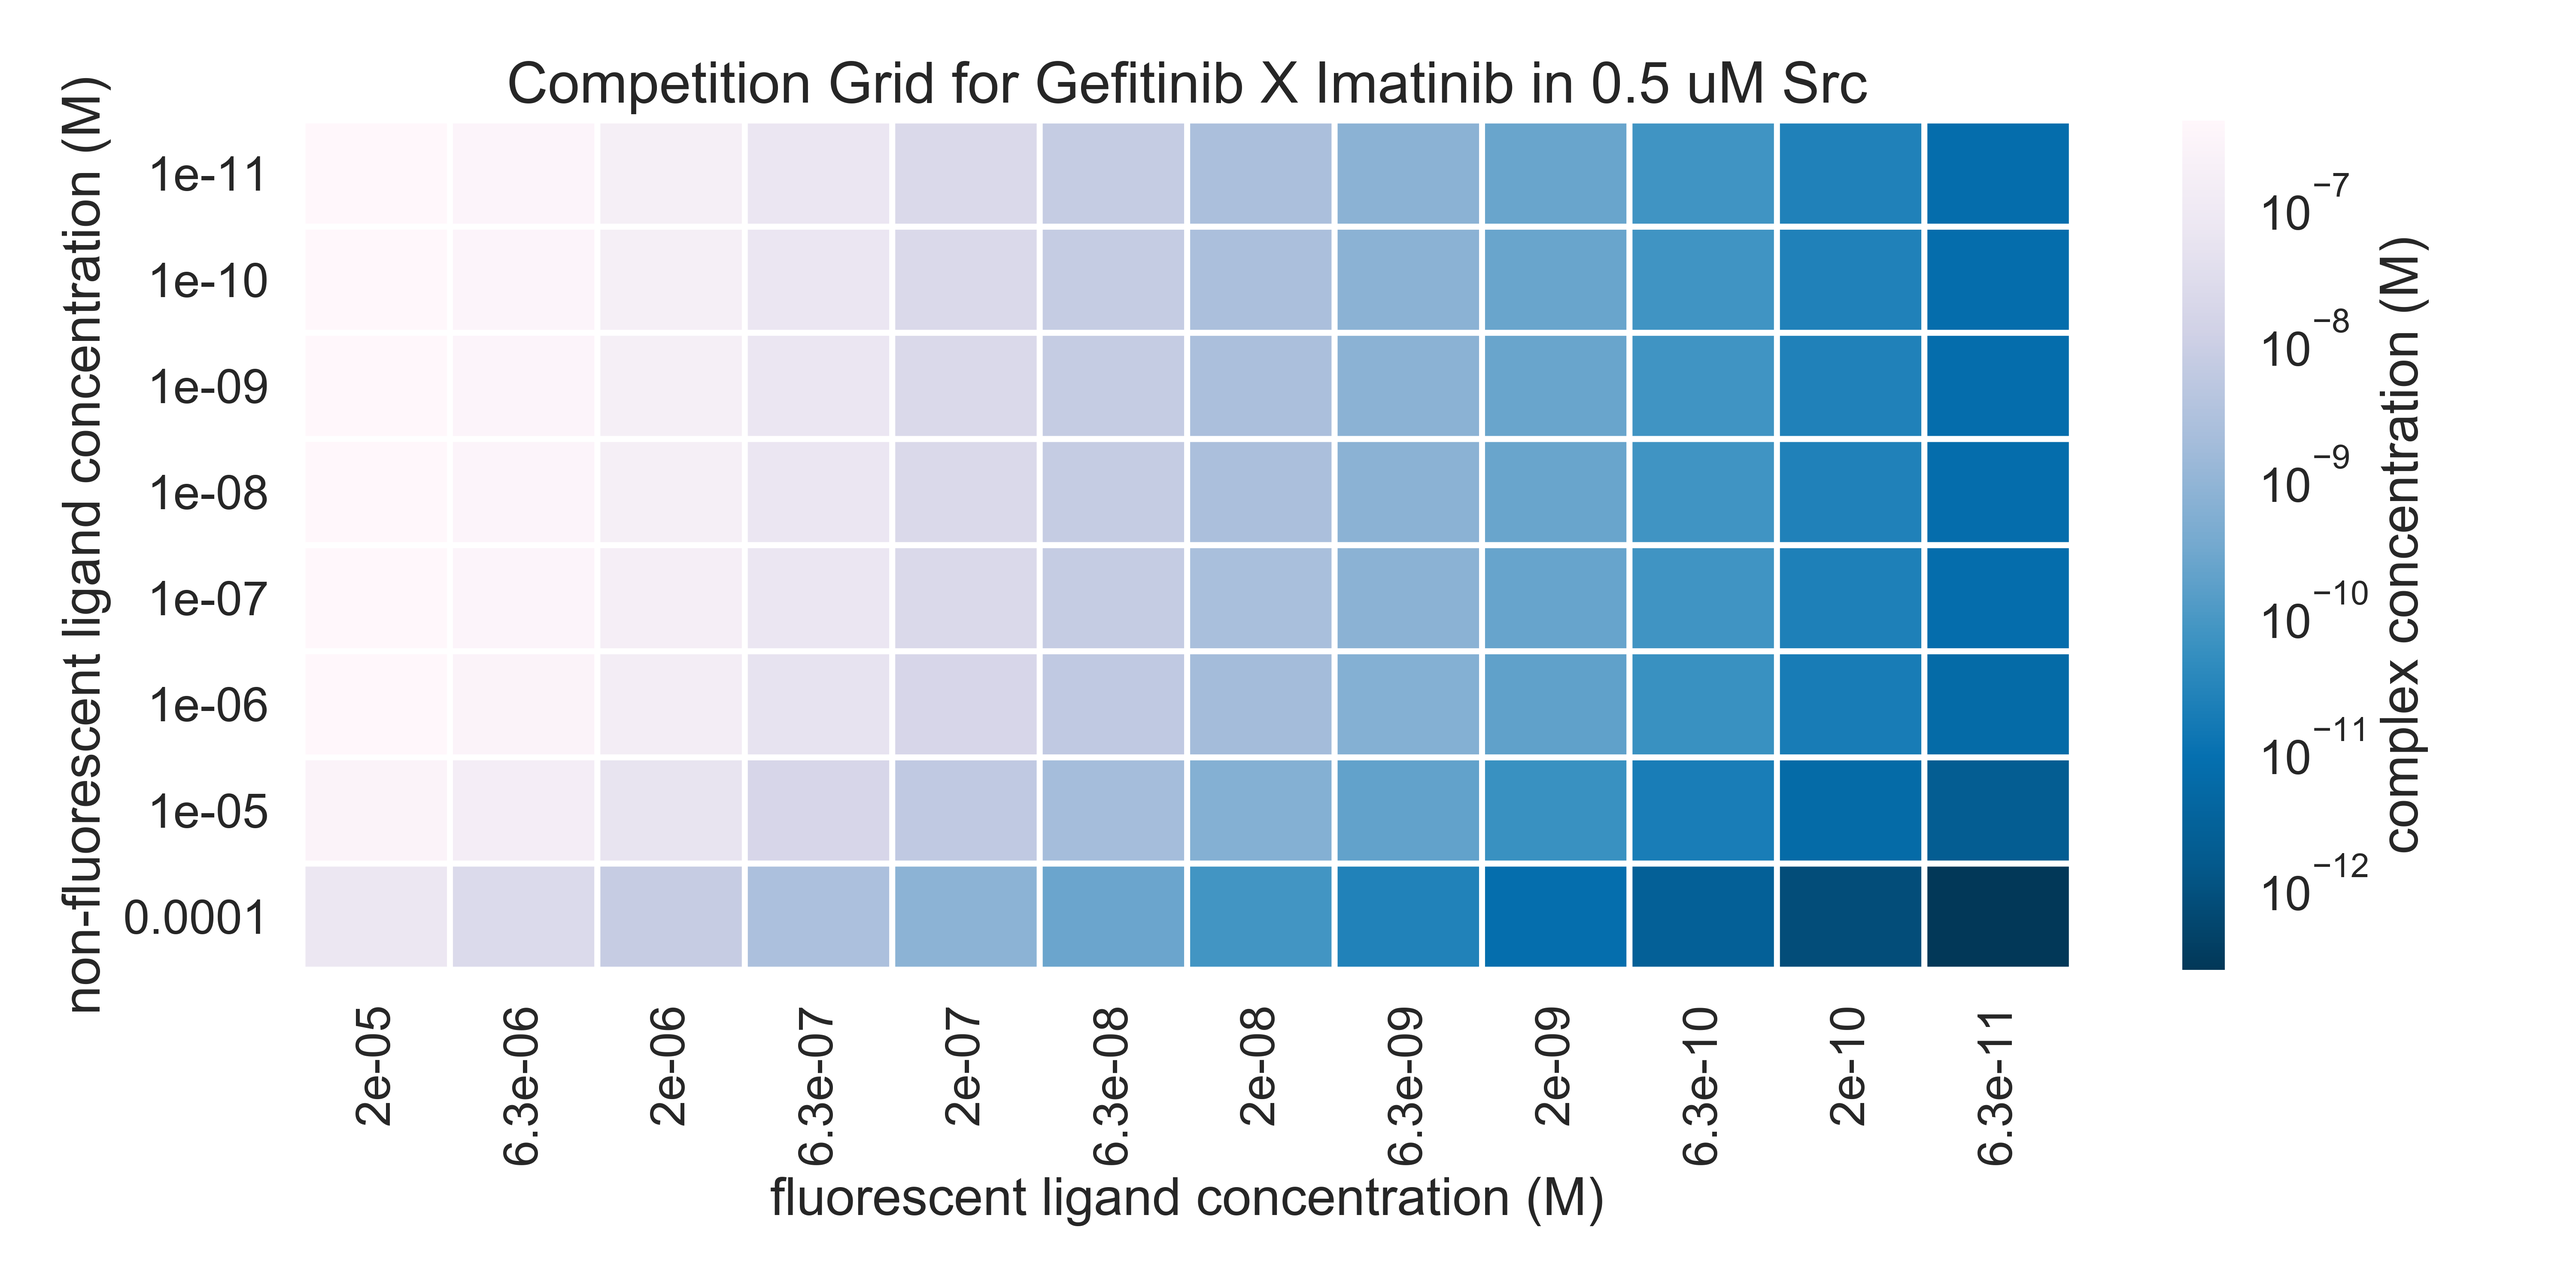
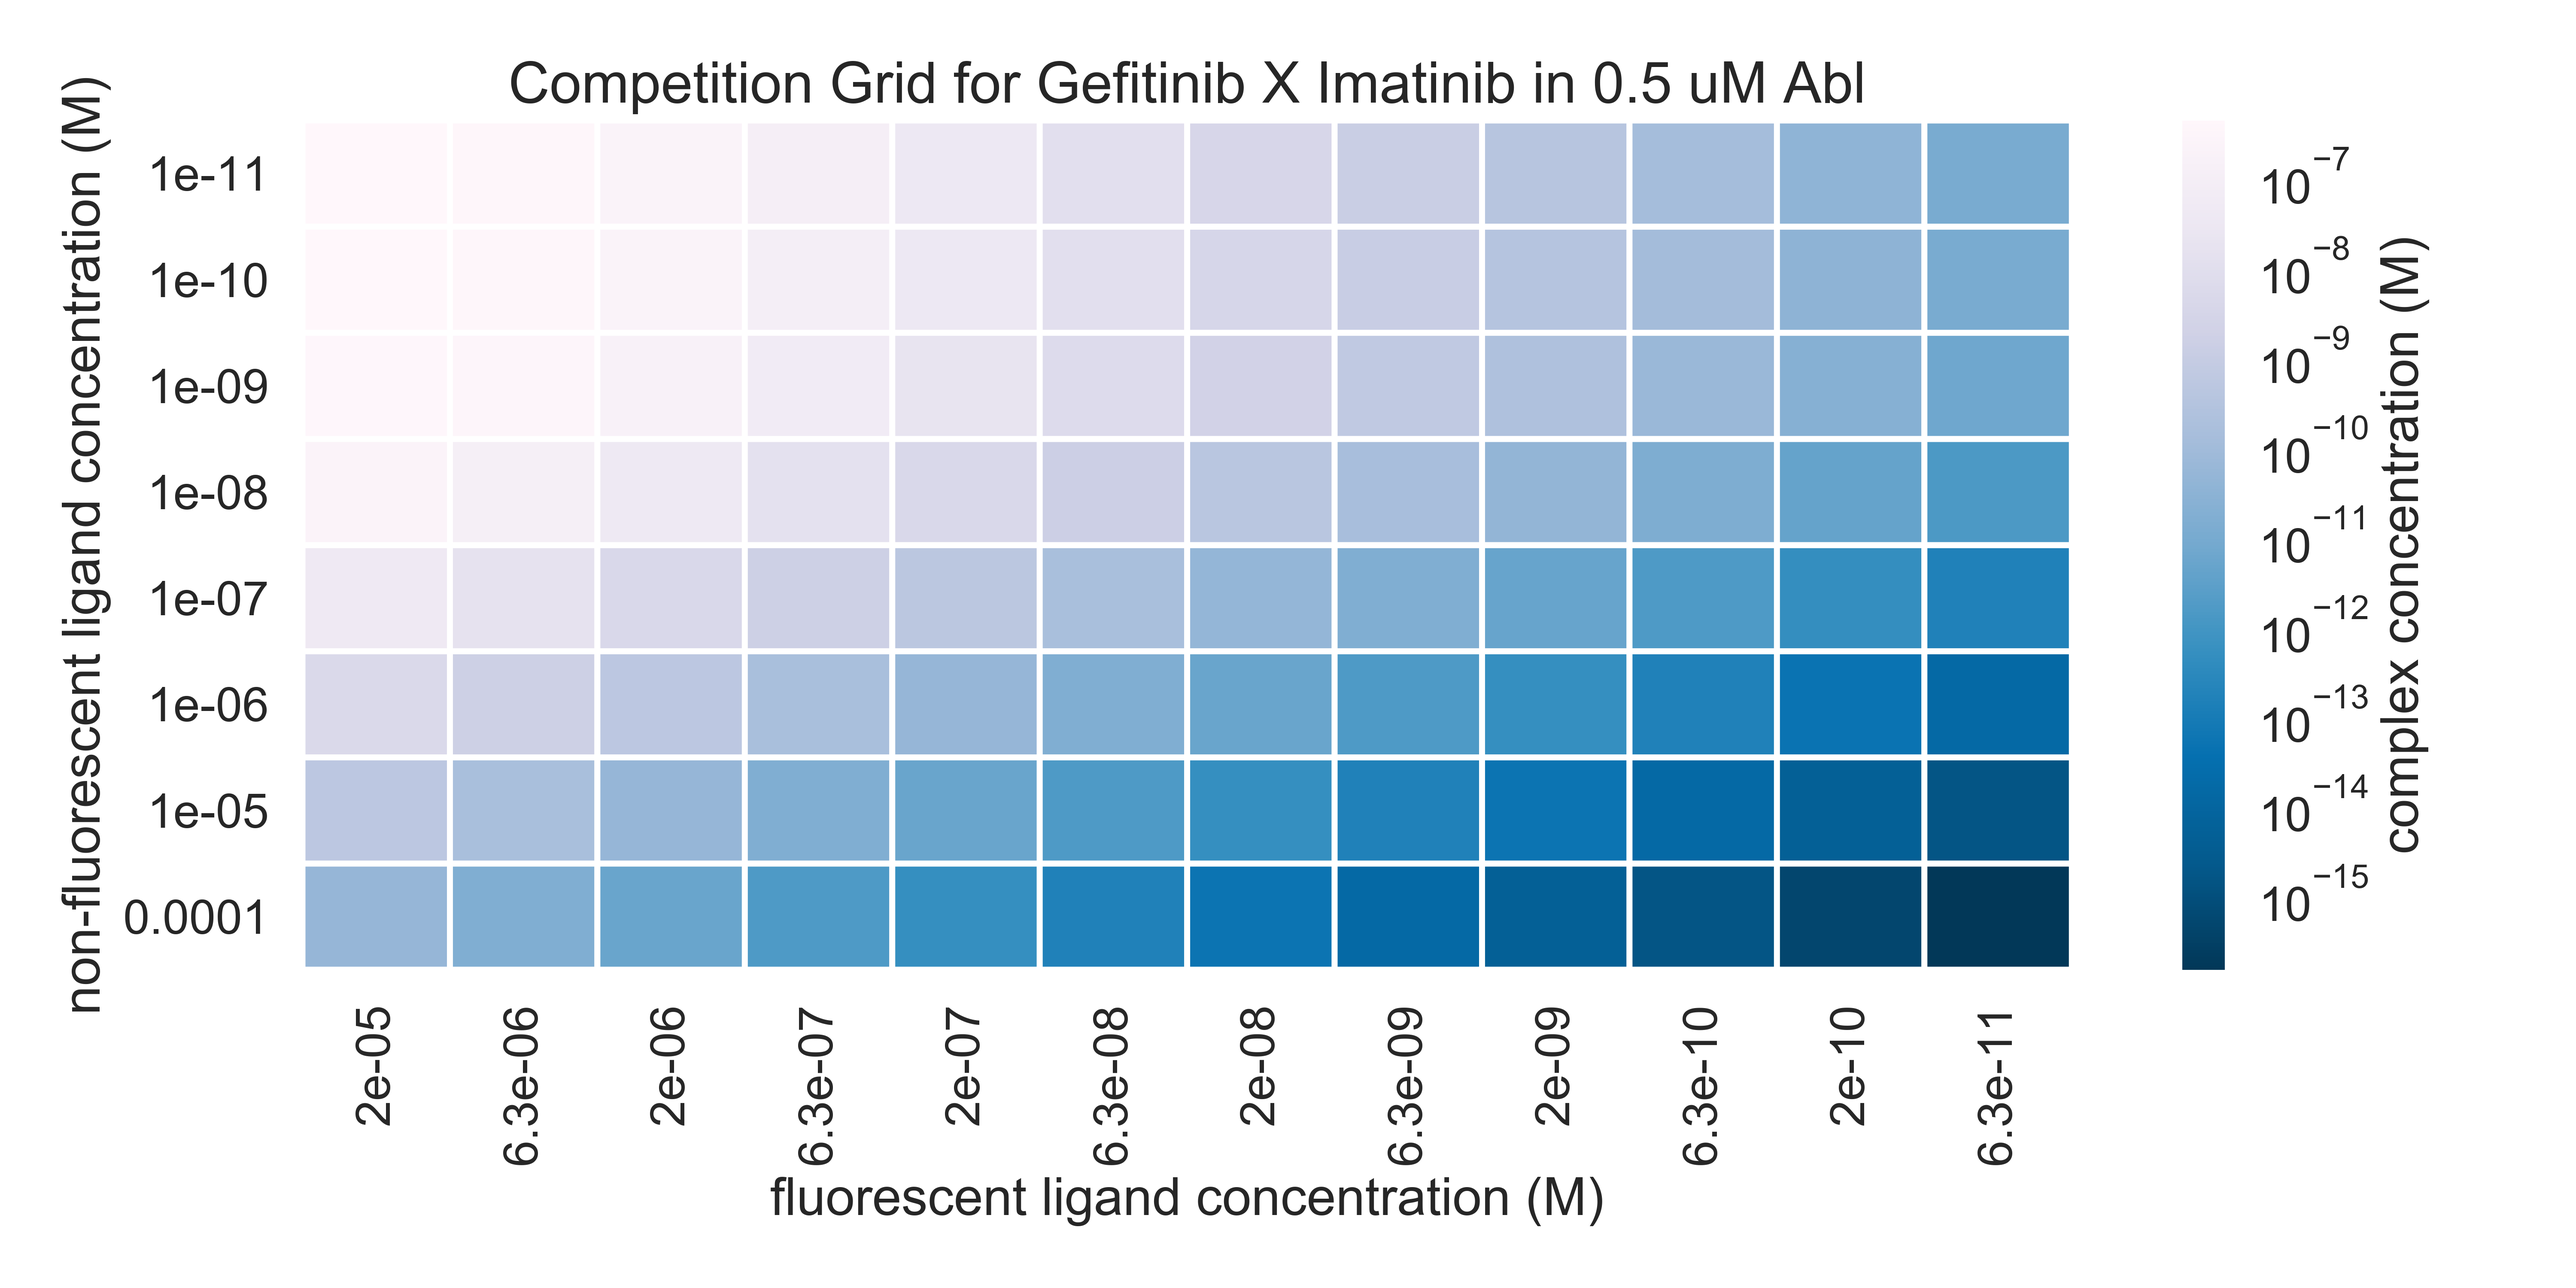
updated competition_grid to be for Abl and also output curves fig

diff --git a/figures/Figure4/generate_competition_grid.py b/figures/Figure4/generate_competition_grid.py
@@ -45,9 +45,10 @@ def three_component_competitive_binding(Ptot, Ltot, Kd_L, Atot, Kd_A):
     A = Atot - PL; # free competitive ligand concentration in sample cell after n injections (uM)
     return [P, L, A, PL, Kd_L_app]
 
-Kd_Bos = 1.0e-9 # M
-Kd_Gef = 3800e-9 # M
-Kd_Ima = 3000e-9 # M
+#These are binding affinities to ABL1-nonphosphorylated according to guidetopharmacology.org
+Kd_Bos = 0.1e-9 # M
+Kd_Gef = 2200e-9 # M
+Kd_Ima = 1.1e-9 # M
 
 Ptot = 0.5e-6 # M
 Ltot = 20.0e-6 / np.array([10**(float(i)/2.0) for i in range(12)]) # M
@@ -78,9 +79,35 @@ plt.ylabel('non-fluorescent ligand concentration (M)')
 plt.xticks(np.arange(0.5, 12.5),Ltot_visual,rotation='vertical');
 plt.yticks(np.arange(0.5, 12.5),concentration_range);
 plt.ylim((0, len(concentration_range)))
-plt.title('Competition Grid for Gefitinib X Imatinib in 0.5 uM Src')
+plt.title('Competition Grid for Gefitinib X Imatinib in 0.5 uM Abl')
 plt.colorbar(label='complex concentration (M)');
 plt.tight_layout()
 
 plt.savefig('competition_grid.png', dpi=500)
 plt.savefig('competition_grid.pdf')
+
+plt.clf()
+
+colors = ['cyan','blue','green','yellowgreen','gold','orange','red','maroon']
+
+sns.set(style='white')
+sns.set_context('talk')
+
+
+fig, ax = plt.subplots(figsize=(8,4))
+for i in range(len(competition_grid_gefitinib)):
+    plt.semilogx(Ltot, competition_grid_gefitinib[i],color=colors[i],label=concentration_range[i]);
+handles, labels = ax.get_legend_handles_labels()
+plt.legend(reversed(handles), reversed(labels), title='[Ima] (M)');
+plt.xlabel('$[L]_T$ (M)',fontsize=16);
+plt.yticks([])
+plt.xticks(fontsize=16)
+plt.xlim((2e-9,5e-5))
+plt.ylabel('Fluorescence',fontsize=20);
+
+ax.spines['top'].set_visible(False)
+ax.spines['right'].set_visible(False)
+plt.tight_layout()
+
+plt.savefig('competition_curves.png', dpi=500)
+plt.savefig('competition_curves.pdf')
